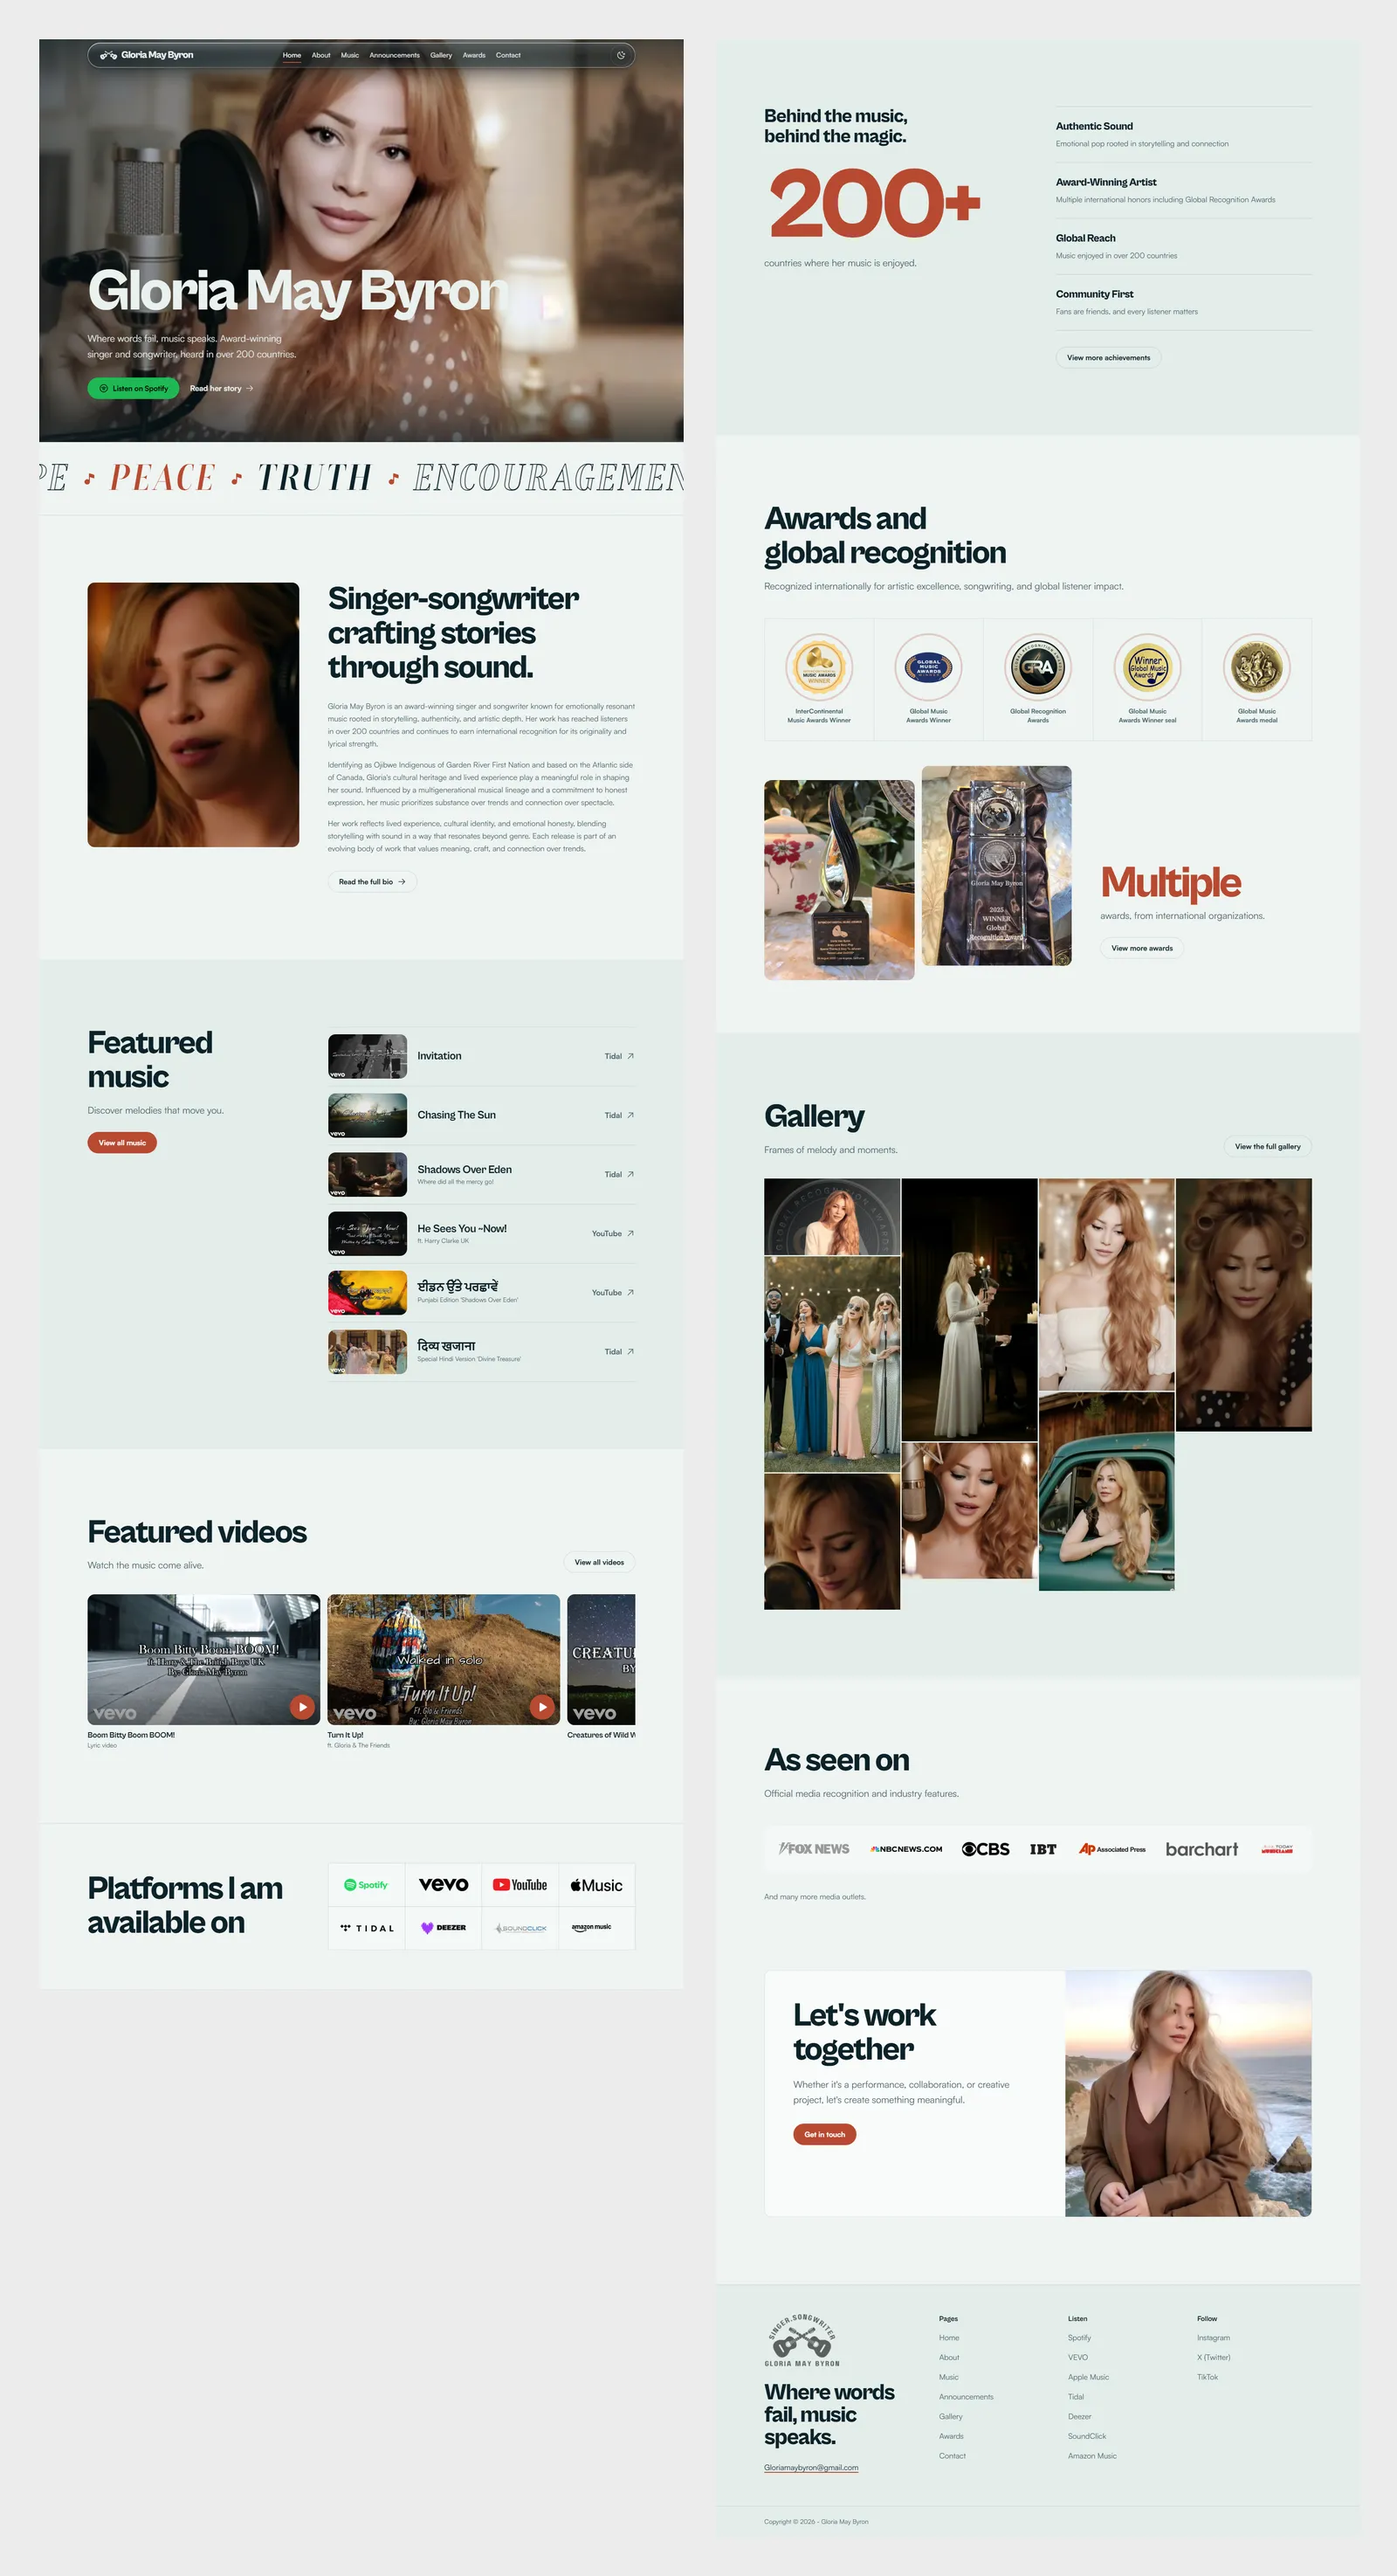
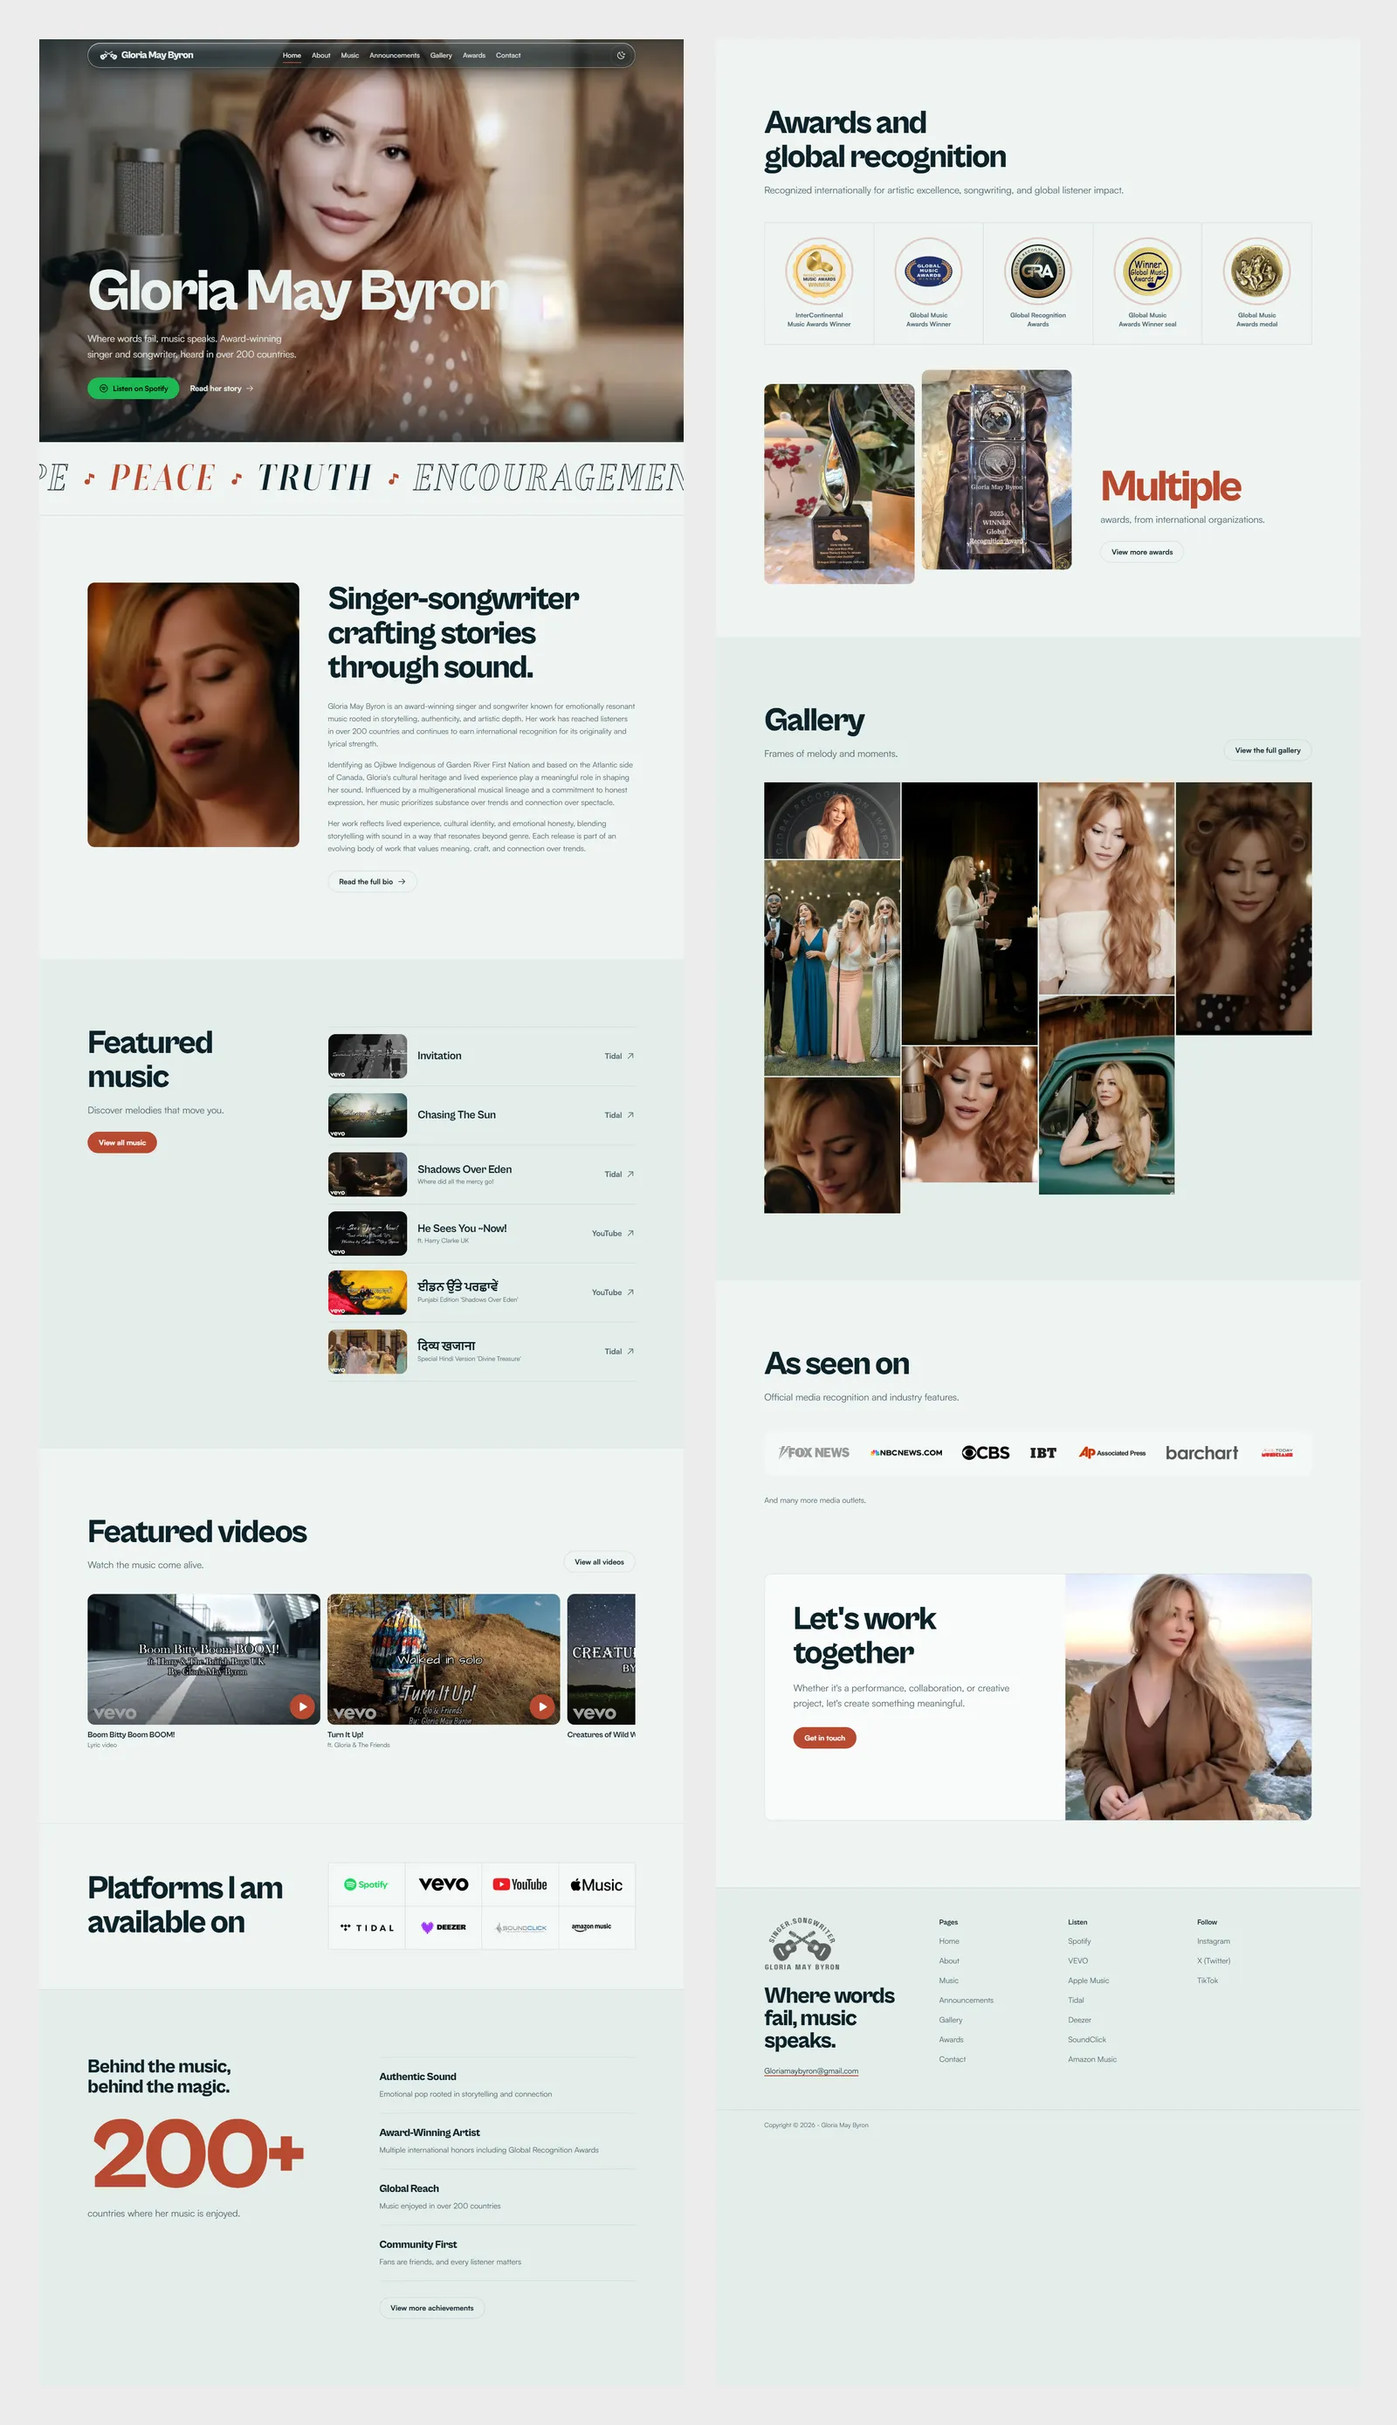
Show the profile panel from first paint; balance the Gloria collage; use the framed awards as her second phone screenshot

diff --git a/src/data/image-sizes.generated.ts b/src/data/image-sizes.generated.ts
@@ -21,7 +21,7 @@ export const imageSizes: Record<string, { width: number; height: number; v?: str
   "certifications/Certificate (Six-Sigma-Yellow-Belt).png": { width: 877, height: 676 },
   "certifications/Certificate (Tata - Data Visualisation).png": { width: 1263, height: 893 },
   "product_showcase/_collage/alder-rowe.webp": { width: 1600, height: 3173, v: "9ef24957" },
-  "product_showcase/_collage/gloria-may-byron.webp": { width: 1600, height: 2949, v: "60c46e8a" },
+  "product_showcase/_collage/gloria-may-byron.webp": { width: 1600, height: 2777, v: "836282b1" },
   "product_showcase/_collage/hearthline-realty.webp": { width: 1600, height: 2309, v: "30fa8426" },
   "product_showcase/_collage/velora-beauty.webp": { width: 1600, height: 2389, v: "854682c7" },
   "product_showcase/_mobile/alder-rowe-1.webp": { width: 780, height: 1688, v: "98b7f199" },
@@ -30,7 +30,7 @@ export const imageSizes: Record<string, { width: number; height: number; v?: str
   "product_showcase/_mobile/everwell-1.webp": { width: 780, height: 1688, v: "344e1d7e" },
   "product_showcase/_mobile/everwell-2.webp": { width: 780, height: 1688, v: "db7b790b" },
   "product_showcase/_mobile/gloria-may-byron-1.webp": { width: 780, height: 1688, v: "855f9444" },
-  "product_showcase/_mobile/gloria-may-byron-2.webp": { width: 780, height: 1688, v: "5a8fb68a" },
+  "product_showcase/_mobile/gloria-may-byron-2.webp": { width: 780, height: 1688, v: "b72ed42e" },
   "product_showcase/_mobile/hearthline-realty-1.webp": { width: 780, height: 1688, v: "29a93b74" },
   "product_showcase/_mobile/hearthline-realty-2.webp": { width: 780, height: 1688, v: "018a7f9f" },
   "product_showcase/_mobile/juniper-ember-1.webp": { width: 780, height: 1688, v: "2ce1a5a2" },

diff --git a/src/components/sections/ReferencePortfolioHome.tsx b/src/components/sections/ReferencePortfolioHome.tsx
@@ -245,15 +245,10 @@ export function ReferencePortfolioHome() {
 }
 
 function IdentityPanel() {
-  const reduce = useReducedMotion();
-
+  // The panel is in the page from the first paint. Its short fade-in is plain CSS (sam-panel-in), so
+  // it never waits for the animation code, which loads later and left the panel invisible until then.
   return (
-    <m.aside
-      className="sam-identity-panel flex min-h-0 flex-col gap-12 px-8 py-8 sm:px-10 sm:py-10 lg:sticky lg:top-0 lg:h-screen lg:min-h-0 lg:self-start lg:justify-between lg:gap-0 lg:overflow-hidden lg:px-8 lg:py-2 xl:px-8 xl:py-5"
-      initial={reduce ? false : { opacity: 0, scale: 0.96 }}
-      animate={{ opacity: 1, scale: 1 }}
-      transition={{ duration: 0.75, type: "spring", bounce: 0, stiffness: 90 }}
-    >
+    <aside className="sam-identity-panel flex min-h-0 flex-col gap-12 px-8 py-8 sm:px-10 sm:py-10 lg:sticky lg:top-0 lg:h-screen lg:min-h-0 lg:self-start lg:justify-between lg:gap-0 lg:overflow-hidden lg:px-8 lg:py-2 xl:px-8 xl:py-5">
       <div>
         <div className="sam-status-wrap flex justify-end">
           <StatusBadge />
@@ -383,7 +378,7 @@ function IdentityPanel() {
           </a>
         </div>
       </div>
-    </m.aside>
+    </aside>
   );
 }
 

diff --git a/src/styles.css b/src/styles.css
@@ -886,3 +886,19 @@ button:focus-visible,
   left: -9px;
   clip-path: polygon(100% 0, 100% 100%, 0 100%);
 }
+
+/* The profile panel fades in on its own, with no script, so it shows with the first paint. */
+@keyframes sam-panel-in {
+  from {
+    opacity: 0;
+    transform: scale(0.985);
+  }
+}
+.sam-identity-panel {
+  animation: sam-panel-in 0.45s ease-out both;
+}
+@media (prefers-reduced-motion: reduce) {
+  .sam-identity-panel {
+    animation: none;
+  }
+}

diff --git a/src/data/mobile-tones.generated.ts b/src/data/mobile-tones.generated.ts
@@ -43,9 +43,9 @@ export const mobileTones: Record<string, MobileTone> = {
     bottomLight: false,
   },
   "product_showcase/_mobile/gloria-may-byron-2.webp": {
-    top: "#101719",
-    topLight: false,
-    bottom: "#c7cfcf",
+    top: "#dde6e3",
+    topLight: true,
+    bottom: "#b6b4b0",
     bottomLight: true,
   },
   "product_showcase/_mobile/hearthline-realty-1.webp": {
